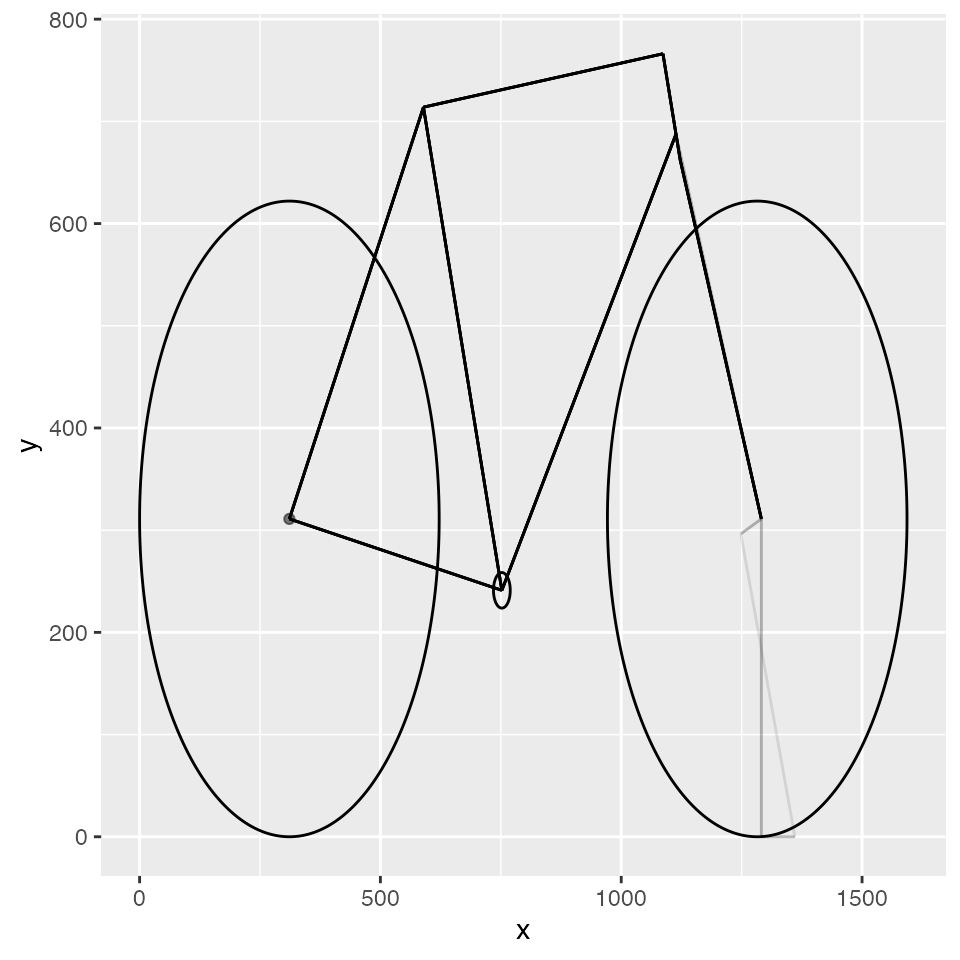
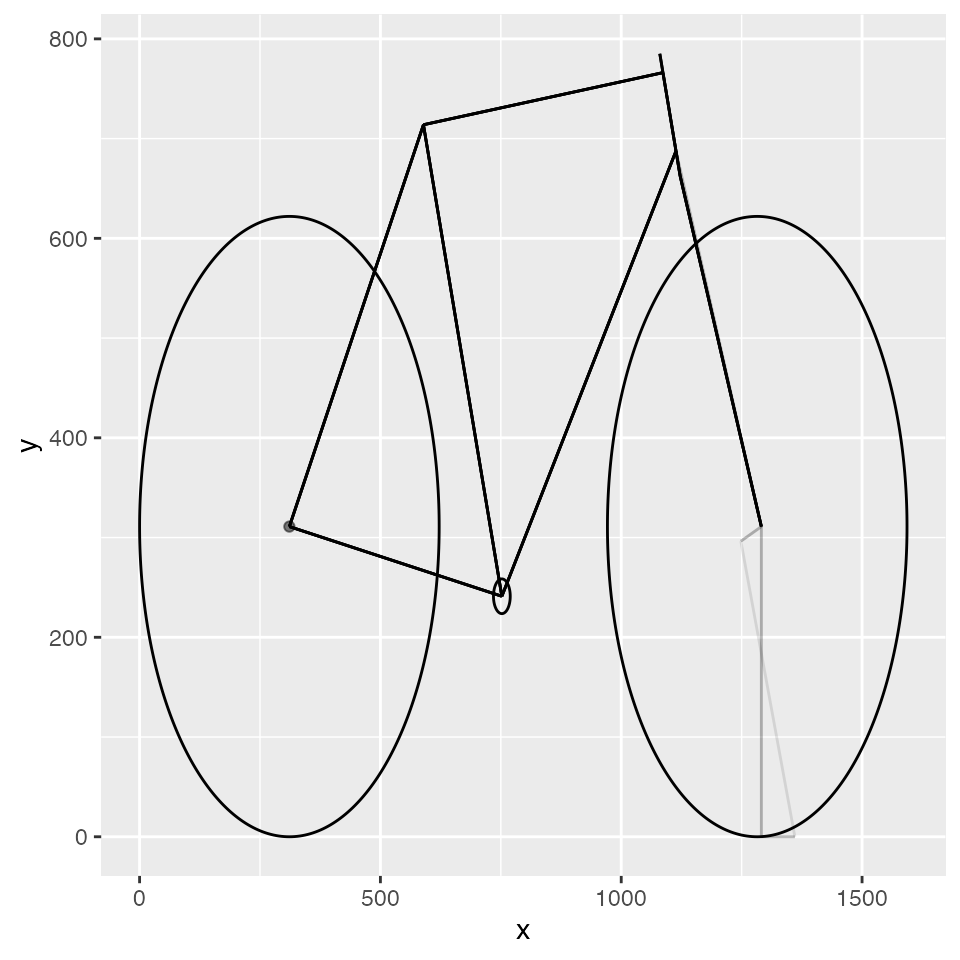
Added reach and stack calculations, some notes about welded frames.

diff --git a/docs/articles/bicycle.html b/docs/articles/bicycle.html
@@ -264,7 +264,8 @@
   <span class="fu"><a href="../reference/find_ht_extension_and_add_true_fork.html">find_ht_extension_and_add_true_fork</a></span><span class="op">(</span><span class="op">)</span>
 <span class="co">#&gt; Pythagoras! 1</span>
 <span class="co">#&gt; h is af 1</span>
-<span class="va">df_slantsix</span> <span class="op"><a href="https://magrittr.tidyverse.org/reference/pipe.html">%&gt;%</a></span> <span class="fu">knitr</span><span class="fu">::</span><span class="fu"><a href="https://rdrr.io/pkg/knitr/man/kable.html">kable</a></span><span class="op">(</span>digits <span class="op">=</span> <span class="fl">0</span><span class="op">)</span></code></pre></div>
+<span class="va">df_slantsix</span> <span class="op"><a href="https://magrittr.tidyverse.org/reference/pipe.html">%&gt;%</a></span> 
+  <span class="fu">knitr</span><span class="fu">::</span><span class="fu"><a href="https://rdrr.io/pkg/knitr/man/kable.html">kable</a></span><span class="op">(</span>digits <span class="op">=</span> <span class="fl">0</span><span class="op">)</span></code></pre></div>
 <table class="table">
 <colgroup>
 <col width="7%">
@@ -344,17 +345,26 @@
 </tr>
 </tbody>
 </table>
+<div id="welded-frames" class="section level2">
+<h2 class="hasAnchor">
+<a href="#welded-frames" class="anchor"></a>Welded frames</h2>
+<p>In a lugged frame the top of the head tube is where the top of the TT-HT lug ring is. The top of the seat tube is where the top of the ST-TT lug is. By contrast, in welded frames you have some discretion. Though the full length of the head tube is derived, how much of it you set aside for extending it above the point where the TT meets it is up to you. The same goes for the seat tube. How much height you add to the head tube matters because it affects the frame reach calculation. Let’s pretend that we want to the head tube to extend 20 mm above the center of the top tube joint:</p>
+<div class="sourceCode" id="cb6"><pre class="downlit sourceCode r">
+<code class="sourceCode R"><span class="va">df_slantsix</span> <span class="op">&lt;-</span> <span class="va">df_slantsix</span> <span class="op"><a href="https://magrittr.tidyverse.org/reference/pipe.html">%&gt;%</a></span> 
+  <span class="fu"><a href="../reference/add_tube_extension.html">add_tube_extension</a></span><span class="op">(</span>tube <span class="op">=</span> <span class="st">'ht_triangle'</span>, t_extension <span class="op">=</span> <span class="fl">20</span><span class="op">)</span></code></pre></div>
+</div>
 <div id="completing-the-picture" class="section level2">
 <h2 class="hasAnchor">
 <a href="#completing-the-picture" class="anchor"></a>Completing the picture</h2>
 <p>Here’s what the frame looks like now:</p>
-<div class="sourceCode" id="cb6"><pre class="downlit sourceCode r">
+<div class="sourceCode" id="cb7"><pre class="downlit sourceCode r">
 <code class="sourceCode R"><span class="va">df_slantsix</span> <span class="op"><a href="https://magrittr.tidyverse.org/reference/pipe.html">%&gt;%</a></span> 
   <span class="fu"><a href="../reference/draw_the_bicycle.html">draw_the_bicycle</a></span><span class="op">(</span><span class="op">)</span> <span class="op"><a href="https://magrittr.tidyverse.org/reference/pipe.html">%&gt;%</a></span> 
   <span class="fu"><a href="../reference/add_the_fork_rake_to_the_drawing.html">add_the_fork_rake_to_the_drawing</a></span><span class="op">(</span><span class="va">df_slantsix</span><span class="op">)</span> <span class="op"><a href="https://magrittr.tidyverse.org/reference/pipe.html">%&gt;%</a></span> 
   <span class="fu"><a href="../reference/draw_the_true_fork.html">draw_the_true_fork</a></span><span class="op">(</span><span class="va">df_slantsix</span><span class="op">)</span> <span class="op"><a href="https://magrittr.tidyverse.org/reference/pipe.html">%&gt;%</a></span> 
   <span class="fu"><a href="../reference/add_the_wheels.html">add_the_wheels</a></span><span class="op">(</span><span class="va">df_slantsix</span><span class="op">)</span> <span class="op"><a href="https://magrittr.tidyverse.org/reference/pipe.html">%&gt;%</a></span> 
   <span class="fu"><a href="../reference/add_the_fork_trail.html">add_the_fork_trail</a></span><span class="op">(</span><span class="va">df_slantsix</span><span class="op">)</span> <span class="op"><a href="https://magrittr.tidyverse.org/reference/pipe.html">%&gt;%</a></span> 
+  <span class="fu"><a href="../reference/add_the_tube_extensions_to_the_drawing.html">add_the_tube_extensions_to_the_drawing</a></span><span class="op">(</span><span class="va">df_slantsix</span><span class="op">)</span> <span class="op"><a href="https://magrittr.tidyverse.org/reference/pipe.html">%&gt;%</a></span> 
   <span class="fu"><a href="https://rdrr.io/r/base/print.html">print</a></span><span class="op">(</span><span class="op">)</span></code></pre></div>
 <p><img src="bicycle_files/figure-html/big_picture-1.png" width="480"></p>
 </div>
@@ -379,7 +389,7 @@
 <h1 class="hasAnchor">
 <a href="#putting-it-all-together" class="anchor"></a>Putting it all together</h1>
 <p>A wrapper that will return a tibble of frame dimensions, a named list of additional metrics of interest, and a picture would be nice, because it would allow tight control over the inputs, so we don’t run the risk that we enter one HT angle in one place, and another somewhere else. That is what <code><a href="../reference/big_bicycle.html">big_bicycle()</a></code> does.</p>
-<div class="sourceCode" id="cb7"><pre class="downlit sourceCode r">
+<div class="sourceCode" id="cb8"><pre class="downlit sourceCode r">
 <code class="sourceCode R"><span class="va">goods</span> <span class="op">&lt;-</span> <span class="fu"><a href="../reference/big_bicycle.html">big_bicycle</a></span><span class="op">(</span><span class="op">)</span>
 <span class="co">#&gt; Joining, by = "st_triangle"</span>
 <span class="co">#&gt; Pythagoras! 1</span>
@@ -390,7 +400,7 @@
 </li>
 <li>the CS length shown here is the length of the projection (shadow) onto the frame plane; the chain stays stick out of the bottom bracket at an angle that is suitably wide so you can fit a rear wheel between the dropouts; because of this angle, a 450 mm chain stay will show up in the table below as a somewhat lower value in the row labeled <code>cs</code> – the wider the angle, the greater the difference.</li>
 </ul>
-<div class="sourceCode" id="cb8"><pre class="downlit sourceCode r">
+<div class="sourceCode" id="cb9"><pre class="downlit sourceCode r">
 <code class="sourceCode R"><span class="va">goods</span><span class="op">$</span><span class="va">data</span> <span class="op"><a href="https://magrittr.tidyverse.org/reference/pipe.html">%&gt;%</a></span> 
   <span class="fu">tibble</span><span class="fu">::</span><span class="fu"><a href="https://tibble.tidyverse.org/reference/add_column.html">add_column</a></span><span class="op">(</span>dim <span class="op">=</span> <span class="fu"><a href="https://rdrr.io/r/base/names.html">names</a></span><span class="op">(</span><span class="va">.</span><span class="op">$</span><span class="va">st_triangle</span><span class="op">)</span><span class="op">)</span> <span class="op"><a href="https://magrittr.tidyverse.org/reference/pipe.html">%&gt;%</a></span> 
   <span class="fu">tidyr</span><span class="fu">::</span><span class="fu"><a href="https://tidyr.tidyverse.org/reference/pivot_longer.html">pivot_longer</a></span><span class="op">(</span><span class="op">!</span><span class="va">dim</span><span class="op">)</span> <span class="op"><a href="https://magrittr.tidyverse.org/reference/pipe.html">%&gt;%</a></span> 
@@ -417,11 +427,11 @@
 <span class="co">#&gt; 12 st       500</span>
 <span class="co">#&gt; 13 tt       500</span></code></pre></div>
 <p>These lengths are represented graphically here:</p>
-<div class="sourceCode" id="cb9"><pre class="downlit sourceCode r">
+<div class="sourceCode" id="cb10"><pre class="downlit sourceCode r">
 <code class="sourceCode R"><span class="fu"><a href="https://rdrr.io/r/base/print.html">print</a></span><span class="op">(</span><span class="va">goods</span><span class="op">$</span><span class="va">picture</span><span class="op">)</span></code></pre></div>
 <p><img src="bicycle_files/figure-html/show_final_picture-1.png" width="480"></p>
 <p>And here are the other sundry metrics:</p>
-<div class="sourceCode" id="cb10"><pre class="downlit sourceCode r">
+<div class="sourceCode" id="cb11"><pre class="downlit sourceCode r">
 <code class="sourceCode R"><span class="fu">tibble</span><span class="fu">::</span><span class="fu"><a href="https://tibble.tidyverse.org/reference/tibble.html">tibble</a></span><span class="op">(</span>name <span class="op">=</span> <span class="fu"><a href="https://rdrr.io/r/base/names.html">names</a></span><span class="op">(</span><span class="va">goods</span><span class="op">$</span><span class="va">metrics</span><span class="op">)</span>, 
                value <span class="op">=</span> <span class="va">goods</span><span class="op">$</span><span class="va">metrics</span><span class="op">)</span> <span class="op"><a href="https://magrittr.tidyverse.org/reference/pipe.html">%&gt;%</a></span> 
   <span class="fu">knitr</span><span class="fu">::</span><span class="fu"><a href="https://rdrr.io/pkg/knitr/man/kable.html">kable</a></span><span class="op">(</span><span class="op">)</span></code></pre></div>
@@ -463,13 +473,21 @@
 <td align="left">Effective top tube length</td>
 <td align="right">500</td>
 </tr>
+<tr class="odd">
+<td align="left">Frame stack.vertical_projection</td>
+<td align="right">473</td>
+</tr>
+<tr class="even">
+<td align="left">Frame reach.horizontal_projection</td>
+<td align="right">337</td>
+</tr>
 </tbody>
 </table>
 <div id="comparing-frame-designs" class="section level2">
 <h2 class="hasAnchor">
 <a href="#comparing-frame-designs" class="anchor"></a>Comparing frame designs</h2>
 <p>What if you had a frame with a classic horizontal top tube, and another with a slant top tube but a shorter seat tube? And what if the chain stay lengths and fork rakes were different too? Or the seat tube angle? Or the tire size? Here’s a way to compare them:</p>
-<div class="sourceCode" id="cb11"><pre class="downlit sourceCode r">
+<div class="sourceCode" id="cb12"><pre class="downlit sourceCode r">
 <code class="sourceCode R"><span class="co"># Put them all into one container data frame. Each frame spec has</span>
 <span class="co"># its own name in the df column and these names will encode the </span>
 <span class="co"># colors. In other words, you can stack any number of frame</span>
@@ -556,7 +574,7 @@
     <span class="fu"><a href="https://ggplot2.tidyverse.org/reference/guides.html">guides</a></span><span class="op">(</span>color <span class="op">=</span> <span class="fu"><a href="https://ggplot2.tidyverse.org/reference/guide_legend.html">guide_legend</a></span><span class="op">(</span>title <span class="op">=</span> <span class="st">""</span>,<span class="op">)</span><span class="op">)</span>
 <span class="op">}</span></code></pre></div>
 <p>Now let’s compare them:</p>
-<div class="sourceCode" id="cb12"><pre class="downlit sourceCode r">
+<div class="sourceCode" id="cb13"><pre class="downlit sourceCode r">
 <code class="sourceCode R"><span class="fu"><a href="https://rdrr.io/r/base/print.html">print</a></span><span class="op">(</span><span class="fu">compare_two_bikes</span><span class="op">(</span><span class="va">bicycles</span><span class="op">)</span><span class="op">)</span></code></pre></div>
 <p><img src="bicycle_files/figure-html/compare_them-1.png" width="480"></p>
 </div>

diff --git a/docs/reference/add_the_tube_extensions_to_the_drawing.html b/docs/reference/add_the_tube_extensions_to_the_drawing.html
@@ -6,7 +6,7 @@
 <meta http-equiv="X-UA-Compatible" content="IE=edge">
 <meta name="viewport" content="width=device-width, initial-scale=1.0">
 
-<title>Get some useful frame metrics — get_all_the_metrics • bicycle</title>
+<title>Add any tube extensions to the frame drawing — add_the_tube_extensions_to_the_drawing • bicycle</title>
 
 
 <!-- jquery -->
@@ -39,9 +39,13 @@
 
 
 
-<meta property="og:title" content="Get some useful frame metrics — get_all_the_metrics" />
-<meta property="og:description" content="Once you have a frame design df you can use this to derive
-some metrics that will help gauge the ride characteristics." />
+<meta property="og:title" content="Add any tube extensions to the frame drawing — add_the_tube_extensions_to_the_drawing" />
+<meta property="og:description" content="If this is a welded frame, you can set the difference between
+the top of the head tube and the point where the top tube joins
+the head tube (measured center-to-center). You can also set the
+difference between the top of the seat tube and the center of
+the point where the top tube meets the seat tube. Both of these
+differences are &quot;tube extensions&quot; that, if set, can be drawn." />
 
 
 
@@ -107,36 +111,42 @@ some metrics that will help gauge the ride characteristics." />
 <div class="row">
   <div class="col-md-9 contents">
     <div class="page-header">
-    <h1>Get some useful frame metrics</h1>
+    <h1>Add any tube extensions to the frame drawing</h1>
     
-    <div class="hidden name"><code>get_all_the_metrics.Rd</code></div>
+    <div class="hidden name"><code>add_the_tube_extensions_to_the_drawing.Rd</code></div>
     </div>
 
     <div class="ref-description">
-    <p>Once you have a frame design <code>df</code> you can use this to derive
-some metrics that will help gauge the ride characteristics.</p>
+    <p>If this is a welded frame, you can set the difference between
+the top of the head tube and the point where the top tube joins
+the head tube (measured center-to-center). You can also set the
+difference between the top of the seat tube and the center of
+the point where the top tube meets the seat tube. Both of these
+differences are "tube extensions" that, if set, can be drawn.</p>
     </div>
 
-    <pre class="usage"><span class='fu'>get_all_the_metrics</span><span class='op'>(</span>
+    <pre class="usage"><span class='fu'>add_the_tube_extensions_to_the_drawing</span><span class='op'>(</span>
+  <span class='va'>x</span>,
   <span class='va'>df</span>,
-  angle_btw_css <span class='op'>=</span> <span class='fl'>14</span>,
   wheel_diameter <span class='op'>=</span> <span class='fl'>622</span>,
-  crank_arm_length <span class='op'>=</span> <span class='fl'>170</span>,
-  old_spacing <span class='op'>=</span> <span class='fl'>130</span>,
-  bbs_width <span class='op'>=</span> <span class='fl'>68</span>
+  c <span class='op'>=</span> <span class='fu'><a href='https://rdrr.io/r/base/AsIs.html'>I</a></span><span class='op'>(</span><span class='st'>"black"</span><span class='op'>)</span>,
+  alpha_factor <span class='op'>=</span> <span class='fl'>1</span>
 <span class='op'>)</span></pre>
 
     <h2 class="hasAnchor" id="arguments"><a class="anchor" href="#arguments"></a>Arguments</h2>
     <table class="ref-arguments">
     <colgroup><col class="name" /><col class="desc" /></colgroup>
     <tr>
+      <th>x</th>
+      <td><p>An existing ggplot object. At a minimum, it's a scatter plot of
+the rear dropout center. But it can be a bicycle frame of a previous design
+already drawn, onto which you can now overlay a new design using the dims
+in <code>df</code> for easy comparison.</p></td>
+    </tr>
+    <tr>
       <th>df</th>
       <td><p>A frame design tibble, such as the minimal one drawn by <code><a href='wrap_frame_dims.html'>wrap_frame_dims()</a></code>
 or the one augmented by <code><a href='find_ht_extension_and_add_true_fork.html'>find_ht_extension_and_add_true_fork()</a></code>.</p></td>
-    </tr>
-    <tr>
-      <th>angle_btw_css</th>
-      <td><p>Angle between chain stays, in degrees.</p></td>
     </tr>
     <tr>
       <th>wheel_diameter</th>
@@ -145,31 +155,26 @@ of a 700c wheel. To see the effect of the tire width, add 2 x tire width in mill
 -- i.e. specify <code>wheel_diameter = 622 + 2 * 32</code> for a 32 mm tire.</p></td>
     </tr>
     <tr>
-      <th>crank_arm_length</th>
-      <td><p>The crank arm length in millimeters. Typical values are 165, 170 and 175 for adult riders.</p></td>
+      <th>c</th>
+      <td><p>The color of the line segments.</p></td>
     </tr>
     <tr>
-      <th>old_spacing</th>
-      <td><p>Over-locknut-dimension (hub width) in millimeters.</p></td>
-    </tr>
-    <tr>
-      <th>bbs_width</th>
-      <td><p>Bottom bracket shell width. It's standard -- 68 mm is typical for road bikes.</p></td>
+      <th>alpha_factor</th>
+      <td><p>The transparency of the line segments, <code>alpha</code>.</p></td>
     </tr>
     </table>
 
     <h2 class="hasAnchor" id="value"><a class="anchor" href="#value"></a>Value</h2>
 
-    <p>A named vector</p>
+    <p>A ggplot object.</p>
     <h2 class="hasAnchor" id="details"><a class="anchor" href="#details"></a>Details</h2>
 
-    <p>Effective top tube length is measured from the center of the point
-where the top tube meets the head tube to the center of the seat post,
-which in the drawing rendered by <code><a href='add_the_ett_to_the_drawing.html'>add_the_ett_to_the_drawing()</a></code>
-looks like a faint line that continues the seat tube. An alternate way
-is to measure it from the top of the head tube to the center of the seat
-post. The two are the same if the head tube and the seat tube have the
-same angle, because they are just the long sides of a parallelogram.</p>
+    <p>A complete <code>df</code> tibble as drawn by <code><a href='wrap_frame_dims.html'>wrap_frame_dims()</a></code>
+is necessary. If it contains no tube extensions, the <code>x</code> ggplot
+object will be returned unchanged.</p>
+    <h2 class="hasAnchor" id="see-also"><a class="anchor" href="#see-also"></a>See also</h2>
+
+    <div class='dont-index'><p><code><a href='https://ggplot2.tidyverse.org/reference/ggplot.html'>ggplot2::ggplot()</a></code></p></div>
 
   </div>
   <div class="col-md-3 hidden-xs hidden-sm" id="pkgdown-sidebar">

diff --git a/docs/reference/index.html b/docs/reference/index.html
@@ -161,6 +161,12 @@
       </tr><tr>
         
         <td>
+          <p><code><a href="add_the_tube_extensions_to_the_drawing.html">add_the_tube_extensions_to_the_drawing()</a></code> </p>
+        </td>
+        <td><p>Add any tube extensions to the frame drawing</p></td>
+      </tr><tr>
+        
+        <td>
           <p><code><a href="add_the_wheels.html">add_the_wheels()</a></code> </p>
         </td>
         <td><p>Add the wheels to a frame drawing</p></td>
